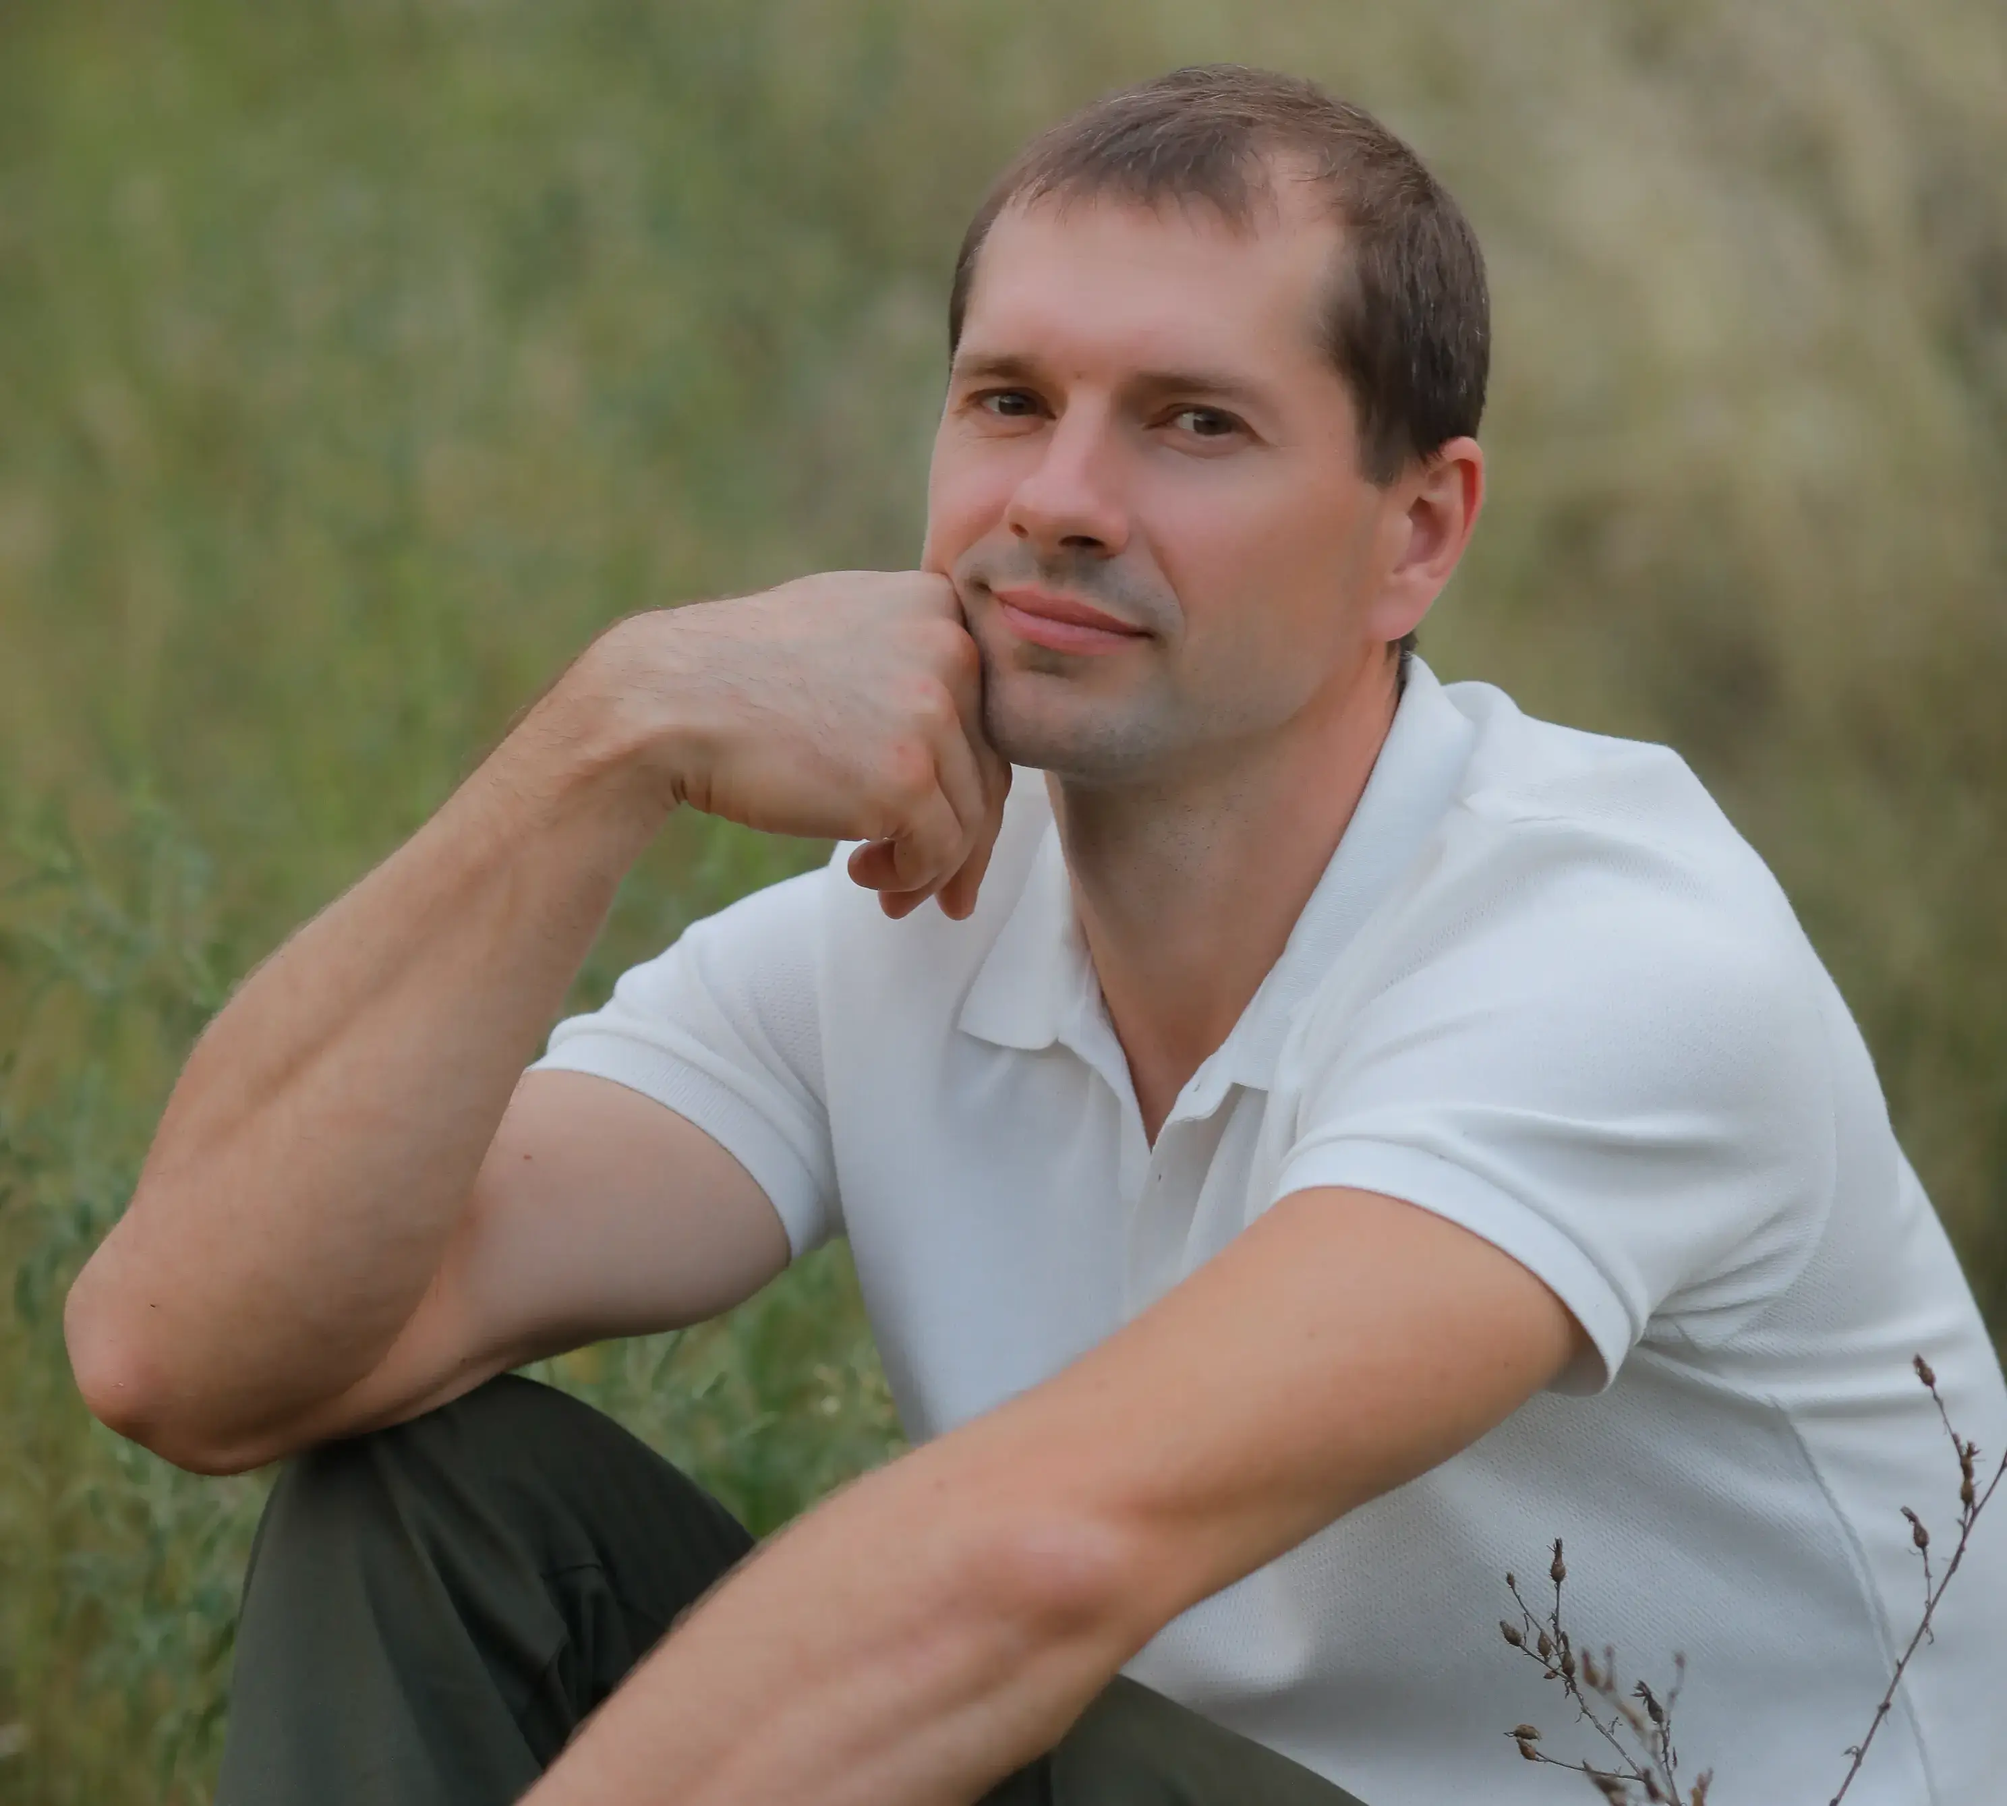
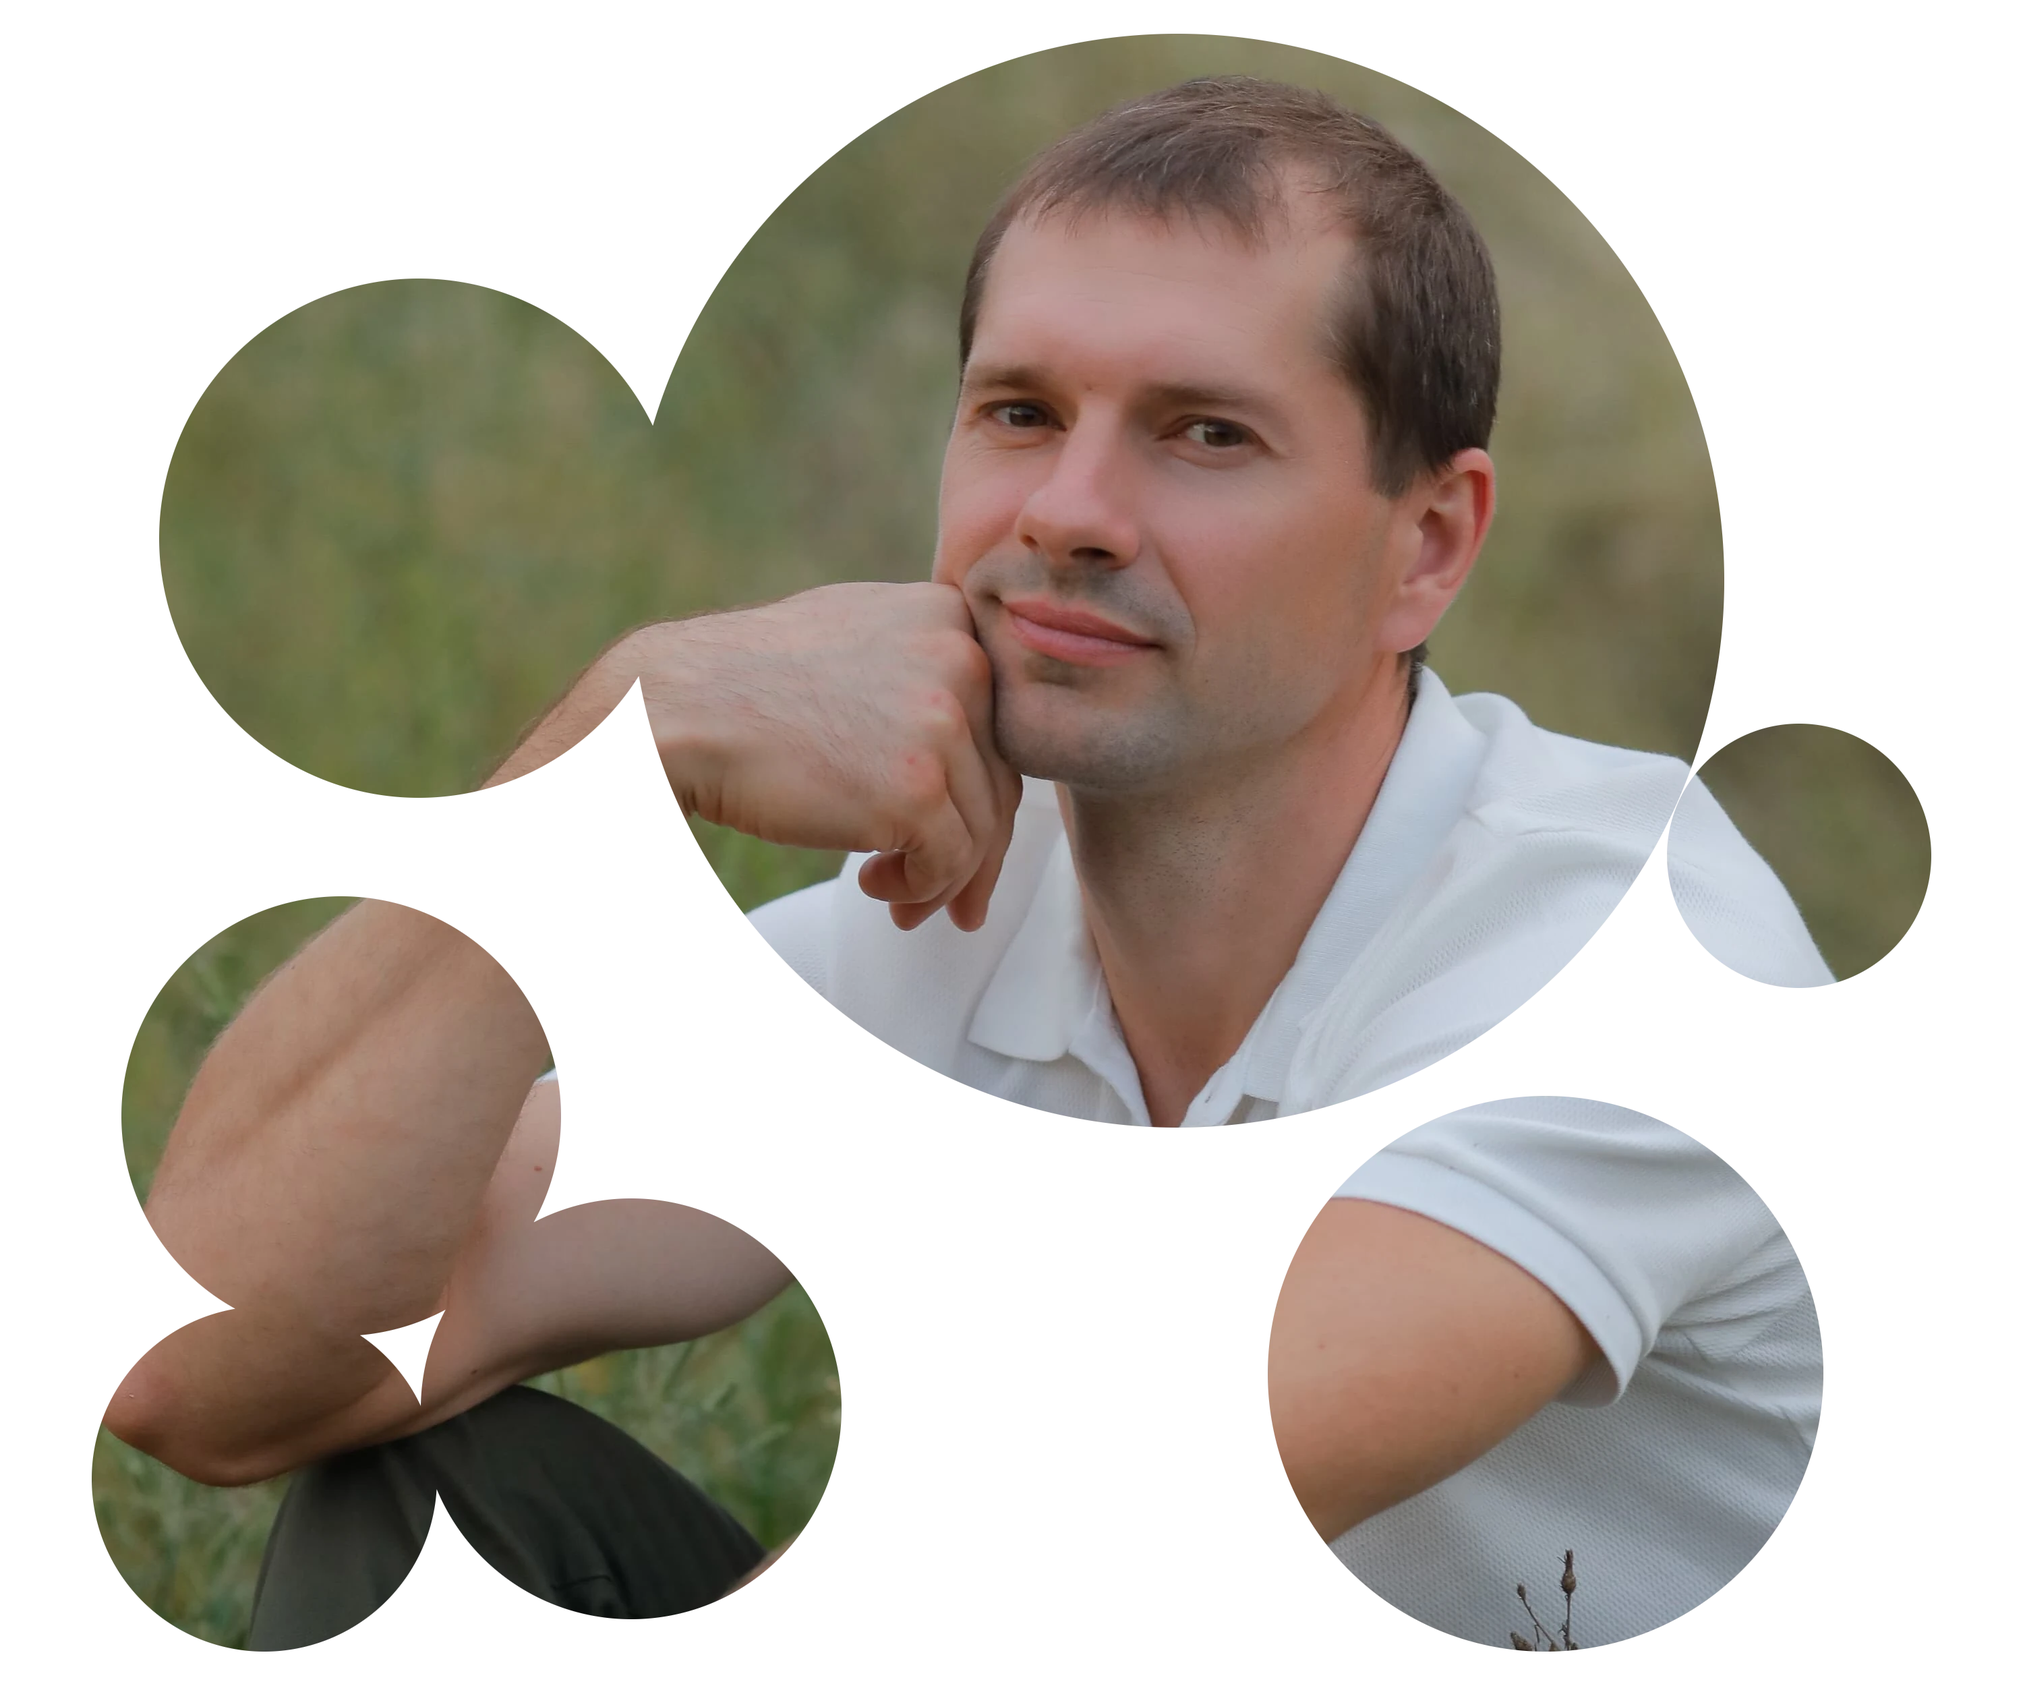
done without mediaquery

diff --git a/src/fakeAPI.jsx b/src/fakeAPI.jsx
@@ -1,10 +1,10 @@
 import { nanoid } from "nanoid";
 
-import photo_01_jpg from './img/hero/photo_01.jpg';
-import photo_02_jpg from './img/hero/photo_02.jpg';
-import photo_03_jpg from './img/hero/photo_03.jpg';
-import photo_04_jpg from './img/hero/photo_04.jpg';
-import photo_05_jpg from './img/hero/photo_05.jpg';
+import photo_01_png from './img/hero/photo_01.png';
+import photo_02_png from './img/hero/photo_02.png';
+import photo_03_png from './img/hero/photo_03.png';
+import photo_04_png from './img/hero/photo_04.png';
+import photo_05_png from './img/hero/photo_05.png';
 
 import photo_01_webp from './img/hero/photo_01.webp';
 import photo_02_webp from './img/hero/photo_02.webp';
@@ -53,7 +53,7 @@ const db = {
       id: nanoid(),
       name: 'Serhii Rudenko',
       job: 'developer',
-      urlJpg: photo_01_jpg,
+      urlPng: photo_01_png,
       urlWebp: photo_01_webp,
       date_created: '2022-08-28T14:00:00.000Z',
       socials: [
@@ -278,7 +278,7 @@ const db = {
       id: nanoid(),
       name: 'Serhii Rudenko',
       job: 'developer',
-      urlJpg: photo_02_jpg,
+      urlPng: photo_02_png,
       urlWebp: photo_02_webp,
       date_created: '2022-08-28T15:00:00.000Z',
       socials: [
@@ -503,7 +503,7 @@ const db = {
       id: nanoid(),
       name: 'Serhii Rudenko',
       job: 'developer',
-      urlJpg: photo_03_jpg,
+      urlPng: photo_03_png,
       urlWebp: photo_03_webp,
       date_created: '2022-08-28T16:00:00.000Z',
       socials: [
@@ -728,7 +728,7 @@ const db = {
       id: nanoid(),
       name: 'Serhii Rudenko',
       job: 'developer',
-      urlJpg: photo_04_jpg,
+      urlPng: photo_04_png,
       urlWebp: photo_04_webp,
       date_created: '2022-08-28T17:00:00.000Z',
       socials: [
@@ -953,7 +953,7 @@ const db = {
       id: nanoid(),
       name: 'Serhii Rudenko',
       job: 'developer',
-      urlJpg: photo_05_jpg,
+      urlPng: photo_05_png,
       urlWebp: photo_05_webp,
       date_created: '2022-08-28T18:00:00.000Z',
       socials: [

diff --git a/src/components/ExperienceItem/ExperienceItem.styled.jsx b/src/components/ExperienceItem/ExperienceItem.styled.jsx
@@ -2,16 +2,51 @@ import styled from 'styled-components';
 import { Link } from 'react-router-dom';
 
 export const LinkBack = styled(Link)`
+    color: ${p => p.theme.colors.deepsea};
+    text-shadow: ${p => p.theme.shadows.first};
+
+    width: 100%;
+    border-bottom: ${p => p.theme.borders.deepsea};
+
+    margin-bottom: ${p => p.theme.space[3]}px;
+    padding: ${p => p.theme.space[3]}px;
+
+    :hover{
+        color: ${p => p.theme.colors.seablue};
+        text-shadow: ${p => p.theme.shadows.text};}
+
+    display: block;
+
 `;
 
 export const Span = styled.span`
+    color: ${p => p.theme.colors.deepsea};
+    text-shadow: ${p => p.theme.shadows.first};
+
+    margin-bottom: ${p => p.theme.space[3]}px;
+
 `;
 
 export const Text = styled.p`
+    color: ${p => p.theme.colors.deepsea};
+    text-shadow: ${p => p.theme.shadows.first};
+
+    font-weight: ${p => p.theme.fontWeights.bold};
+    margin-bottom: ${p => p.theme.space[3]}px;
+
 `;
 
 export const List = styled.ul`
+    padding: ${p => p.theme.space[3]}px;
+    list-style-position: outside;
+    list-style: square;
+
 `;
 
 export const Item = styled.li`
+    color: ${p => p.theme.colors.deepsea};
+    text-shadow: ${p => p.theme.shadows.first};
+
+    margin-bottom: ${p => p.theme.space[3]}px;
+
 `;

diff --git a/src/components/ExperienceItem/ExperienceItem.jsx b/src/components/ExperienceItem/ExperienceItem.jsx
@@ -15,12 +15,12 @@ const ExperienceItem = () => {
 
 const selectedCompany = selected.jobs.find(({companyName}) => companyName === company);
 
-const { dateStart, dateEnd, position, responsibilities, country, city } = selectedCompany;
+const { dateStart, dateEnd, position, responsibilities, country, city, companyName } = selectedCompany;
 
     return (
-        <Box>
-        <LinkBack to={backLinkHref} className="third">Back</LinkBack>
-        <Box className="third"><Text>{position}</Text><Text><Span>{dateStart} - </Span><Span>{dateEnd} | </Span><Span>{city}, </Span><Span>{country}</Span></Text><List>{responsibilities.map(item => <Item key={nanoid()}>- {item}</Item>)}</List></Box>
+        <Box className="first" key={companyName}>
+        <LinkBack to={backLinkHref}>Back</LinkBack>
+        <Box><Text>{position}</Text><Text><Span>{dateStart} - </Span><Span>{dateEnd} | </Span><Span>{city}, </Span><Span>{country}</Span></Text><List>{responsibilities.map(item => <Item key={nanoid()}>{item}</Item>)}</List></Box>
         </Box>
     )
 };

diff --git a/src/components/Layout/Layout.jsx b/src/components/Layout/Layout.jsx
@@ -1,5 +1,5 @@
 import { AppBar } from '../AppBar/AppBar';
-import { Header, Name, Profi } from './Layout.styled';
+import { Header, Name } from './Layout.styled';
 import { Main } from '../Main/Main';
 import { Footer } from 'components/Footer/Footer';
 import Box from '../Box/Box';
@@ -16,8 +16,7 @@ export const Layout = () => {
     (selected) && 
     <Box width="1200px" display="flex" justifyContent="center" ml={'auto'} mr={'auto'} flexDirection="column" p={64}>
         <Box display="flex" mb={64} minHeight={600} style={{position: "relative"}}>
-          <Name className="second">{selected.name} /</Name>
-          <Profi className="third">{selected.job}</Profi>
+          <Name className="second">{selected.name} | {selected.job}</Name>
           <Header>
             <AppBar />
           </Header>

diff --git a/public/index.html b/public/index.html
@@ -3,6 +3,9 @@
   <head>
     <meta charset="utf-8" />
     <link rel="icon" href="%PUBLIC_URL%/favicon.ico" />
+    <link rel="preconnect" href="https://fonts.googleapis.com">
+    <link rel="preconnect" href="https://fonts.gstatic.com" crossorigin>
+    <link href="https://fonts.googleapis.com/css2?family=Maven+Pro:wght@400;700&display=swap" rel="stylesheet">
     <meta name="viewport" content="width=device-width, initial-scale=1" />
     <meta name="theme-color" content="#000000" />
     <meta

diff --git a/src/pages/HomePage/HomePage.jsx b/src/pages/HomePage/HomePage.jsx
@@ -11,9 +11,11 @@ const HomePage = () => {
 
     return (
         (selected) && 
-        <>
-            <Img src={selected.urlJpg} alt="Man" width="800px" className="first"/>
-        </>
+        <picture key={selected.name}>
+            <source srcSet={selected.urlWebp} type="image/webp" />
+            <source srcSet={selected.urlPng} type="image/png" />
+            <Img src={selected.urlPng} alt="Man" width="800px" className="first"/>
+        </picture>
     )
 }
 

diff --git a/src/components/Layout/Layout.styled.jsx b/src/components/Layout/Layout.styled.jsx
@@ -15,22 +15,10 @@ export const Name = styled.h1`
 
     position: absolute;
     top: 0;
-    right: 350px;
+    left: 320px;
 
     font-size: 50px;
 
 `;
 
-export const Profi = styled.h2`
-    color: ${p => p.theme.colors.deepsea};
-    text-shadow: ${p => p.theme.shadows.first};
-
-    position: absolute;
-    top: 0;
-    right: 100px;
-
-    font-size: 50px;
-
-
-`;
 

diff --git a/src/index.css b/src/index.css
@@ -15,8 +15,7 @@ html {
 body {
   margin: 0;
   padding-bottom: 20px;
-  font-family: -apple-system, BlinkMacSystemFont, 'Segoe UI', Roboto,
-    Oxygen-Sans, Ubuntu, Cantarell, 'Helvetica Neue', sans-serif;
+font-family: 'Maven Pro', sans-serif;
   color: #212121;
   background-color: #123456;
   -webkit-font-smoothing: antialiased;

diff --git a/src/pages/HomePage/HomePage.styled.jsx b/src/pages/HomePage/HomePage.styled.jsx
@@ -2,7 +2,4 @@ import styled from 'styled-components';
 
 
 export const Img = styled.img`
-text-align: right;
-box-shadow: ${p => p.theme.shadows.first};
-border-radius: ${p => p.theme.radii.normal};
 `;

diff --git a/src/components/Footer/Footer.styled.jsx b/src/components/Footer/Footer.styled.jsx
@@ -5,8 +5,6 @@ display: flex;
 justify-content: space-around;
 align-items: center;
 
-padding: ${p => p.theme.space[6]}px;
-
 border-top: 1px ${p => p.theme.colors.deepsea};
 `;
 

diff --git a/src/components/Main/Main.styled.jsx b/src/components/Main/Main.styled.jsx
@@ -4,6 +4,8 @@ export const SectionStyled = styled.section`
 
 max-width: 800px;
 padding: ${p => p.theme.space[6]}px;
+padding-bottom: 0;
+
 
 `;
 
